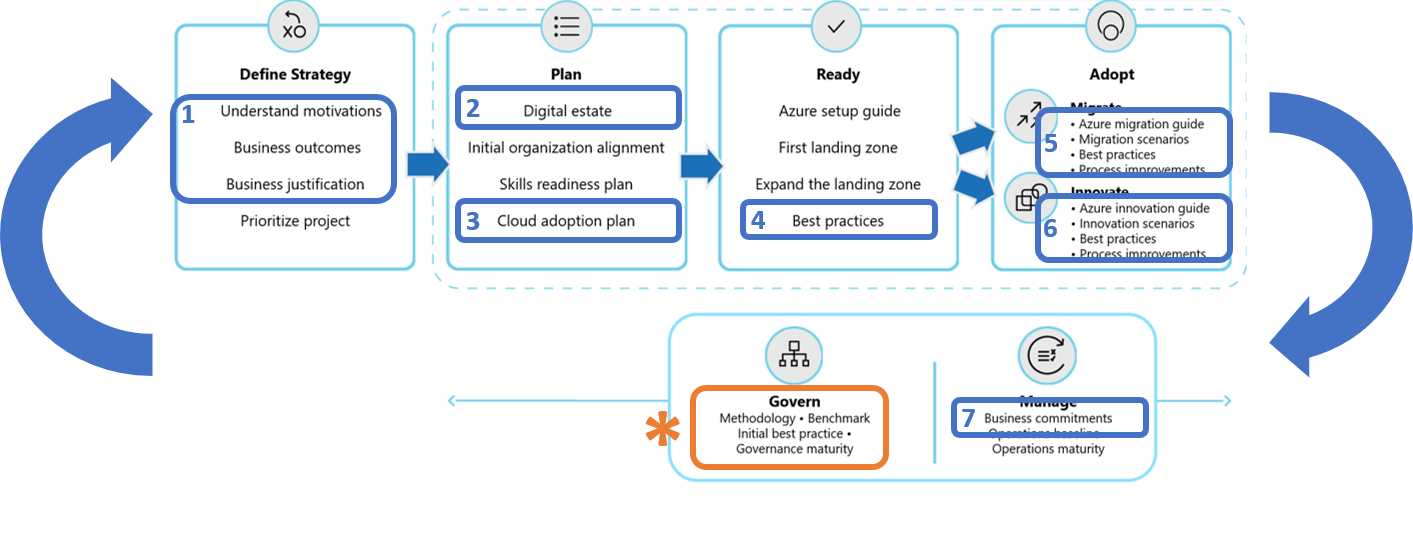
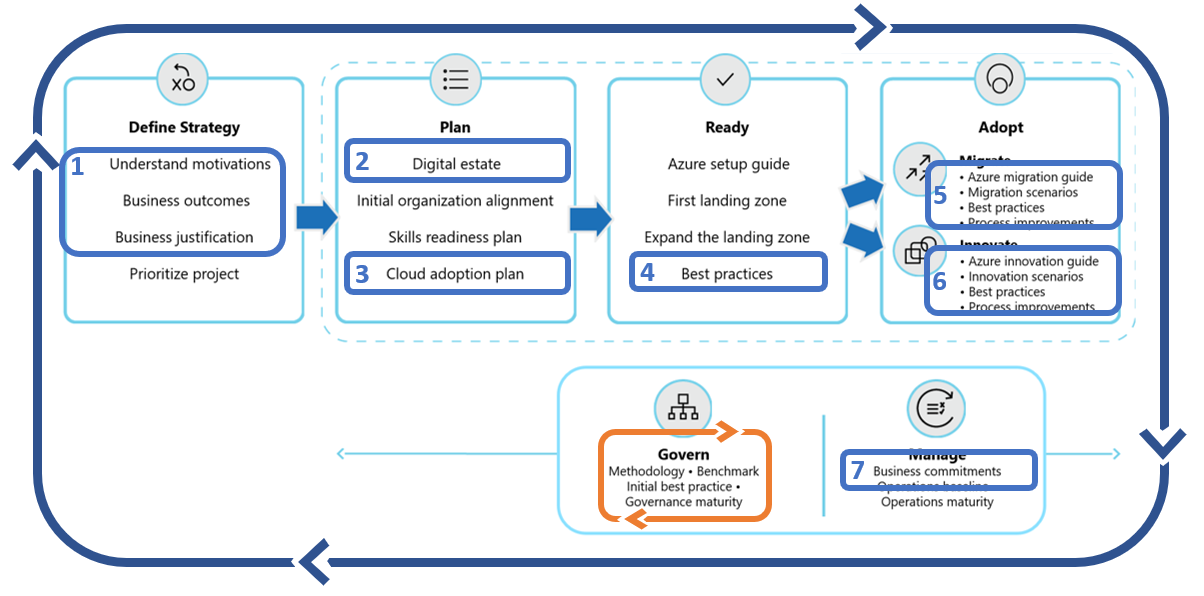
New image & flow to migrate

Changed region(s): [[0.0, 0.0, 1.0, 0.9802]]

diff --git a/docs/getting-started/migrate.md b/docs/getting-started/migrate.md
@@ -13,25 +13,41 @@ ms.subservice: overview
 
 Proper alignment of business and IT stakeholders can help your organization overcome migration roadblocks and accelerate migration efforts. This article provides a checklist and recommended steps for stakeholder alignment, migration planning, deploying a landing zone and migrating the first 10 workloads. It can also help you with long term success provided by proper governance and management.
 
-## Get started
+## Start with iterative migration efforts
 
-Use the migration checklists to discover opportunities to accelerate your migration efforts, remove roadblocks, and ensure success. Follow the steps to reduce the amount of materials and the processes required to align an overall migration effort. This process utilizes the sections of the Cloud Adoption Framework that are highlighted in the following illustration.
+The technical effort required to migrate workloads is relatively straight forward. In this approach, each iteration delivers on the three phases of migration: Assess workloads, Deploy workloads, and Release to production.
+
+![Phases of iterative migration efforts - Assess, Deploy, Release](../_images/migrate/methodology-effort-only.png)
+
+With each iteration, the cloud adoption team will get better at migrating workloads. The following steps will start the technical team on this  maturity curve:
+
+1. Migrate your **first workload** in a pure IaaS approach using the tools outlined in the Azure Migration guide.
+2. Expand tooling and approach options beyond IaaS using the Migration Scenarios.
+3. Develop your technical strategy using broader approaches outlined in the Best Practices.
+4. Improve consistency, reliablity, and performance through an efficient migration factory approach as outlined in the Process Improvements.
+
+Deliverable
+
+Continuous improvement of the adoption team's ability to migrate workloads
+
+Involved teams
+
+- Accountable team: [Cloud Adoption Team](../organize/cloud-adoption.md)
+- Responsible/Supporting teams: [Cloud Strategy Team](../organize/cloud-strategy.md) and [Cloud center of excellence](../organize/cloud-center-of-excellence.md)/[Central IT](../organize/central-it.md)
+
+## Accelerate adoption across the enterprise
+
+Efficient completion of the migration process outlined above is important. But, strategic migration readiness will have an even bigger impact on the timelines and successful completion of the overall migration.
+
+Use this migration checklists to discover opportunities to accelerate your migration efforts, remove roadblocks, and ensure success. Follow the steps to reduce the amount of materials and the processes required to align an overall migration effort. This process utilizes the sections of the Cloud Adoption Framework that are highlighted in the following illustration.
 
 ![Getting Started with Migration in Azure](../_images/getting-started/migration-getting-started-map.png)
 
 If your migration scenario is atypical, you can get a personalized assessment of your organizations migration readiness, by using the Strategic Migration and Readiness Tool or [SMART Assessment](/assessments/?id=Strategic-Migration-Assessment) to identify the guidance that best aligns to your current needs.
 
-## Define strategy
+## Step 1: Create a business strategy
 
-Use the following check list to evaluate your existing migration strategy. Use the steps to define your migration strategy.
-
-- **Business strategy:** Are all stakeholders aligned on the motivations and expected business outcomes?
-- **Business case:** Are all stakeholders aligned on the overall business justification?
-- **Partner support:** Are partners and other support models properly aligned for success of the migration effort?
-
-### Step 1: Create a business strategy
-
-To avoid common migration blockers, create a clear and concise business strategy for migration.
+To avoid common migration blockers, create a clear and concise business strategy for migration. Stakeholder alignment on motivations and expected business outcomes will shape decisions made by the cloud adoption team.
 
 - [Motivations](../strategy/motivations.md): The first step to strategic alignment is to gain a consensus on the motivations driving the migration effort. Start by understanding and categorizing motivations and common themes from various stakeholders across business and IT.
 - [Business Outcomes](../strategy/business-outcomes/index.md): Once motivations are aligned, it's possible to capture the desired business outcomes. This provides clear metrics by which the overall transformation can be measured.
@@ -45,9 +61,9 @@ Involved teams
 - Accountable team: [Cloud Strategy Team](../organize/cloud-strategy.md)
 - Responsible/Supporting teams: [Cloud Adoption Team](../organize/cloud-adoption.md) and [Cloud center of excellence](../organize/cloud-center-of-excellence.md)/[Central IT](../organize/central-it.md)
 
-### Step 2: Make a business case
+## Step 2: Make a business case
 
-Making the business case for migration will likely be an iterative conversation amongst stakeholders. In this first pass at building the business case, evaluate the initial, high-level return from a potential cloud migration.
+Making the business case for migration will likely be an iterative conversation amongst stakeholders. In this first pass at building the business case, evaluate the initial, high-level return from a potential cloud migration. The goal of this step is to ensure that all stakeholders align around one simple question, "Based on the available date, is the overall migration to the cloud a wise business decision?".
 
 - [Building a cloud migration business case](../strategy/cloud-migration-business-case.md) is a good starting point for developing a migration business case, with clarity on formulas and tools that can aid in business justification.
 
@@ -60,7 +76,7 @@ Involved teams
 - Accountable team: [Cloud Strategy Team](../organize/cloud-strategy.md)
 - Responsible/Supporting teams: [Cloud Adoption Team](../organize/cloud-adoption.md)
 
-### Step 3: Get partner support
+## Step 3: Get partner support
 
 Partners, Microsoft services, or various Microsoft programs are available to support you throughout the migration process.
 
@@ -69,23 +85,14 @@ Partners, Microsoft services, or various Microsoft programs are available to sup
 Deliverable
 
 - Establish terms and conditions, or other contractual agreements before engaging a supporting partner.
+- Identify approved partners in the [Strategy and Planning Template](https://archcenter.blob.core.windows.net/cdn/fusion/readiness/Microsoft-Cloud-Adoption-Framework-Strategy-and-Plan-Template.docx).
 
 Involved teams
 
 - Accountable team: [Cloud Strategy Team](../organize/cloud-strategy.md)
 - Responsible/Supporting teams: [Cloud Adoption Team](../organize/cloud-adoption.md) and [Cloud center of excellence](../organize/cloud-center-of-excellence.md)/[Central IT](../organize/central-it.md)
 
-## Plan
-
-Use the following check list to evaluate your existing plan. Use the steps to create a plan for migration based on the business motivations and outcomes that you have defined.
-
-- **Discovery and assessment**: Has the team completed a discovery of existing inventory? Has an initial rationalization and assessment been completed?
-- **Technical skilling**: Does the team have a skills plan in place?
-- **Migration plan**: Is there a defined plan for the migration of the next 10 workloads and related assets, including clarity on people allocations?
-
-The [Strategy and Planning Template](https://archcenter.blob.core.windows.net/cdn/fusion/readiness/Microsoft-Cloud-Adoption-Framework-Strategy-and-Plan-Template.docx) can help you plan your migration efforts and capture critical decisions.
-
-### Step 4: Gather data and analyze assets and workloads
+## Step 4: Gather data and analyze assets and workloads
 
 Discovery and assessment provide a deeper level of technical alignment to create an actionable plan to deliver on the strategy. During this step, the business case is validated using data about the current state environment, quantitative analysis of that data, and a deep qualitative assessment of the highest priority workloads.
 
@@ -97,16 +104,16 @@ Deliverable
 - Raw data on existing inventory
 - Quantitative analysis on existing inventory to refine the business justification
 - Qualitative analysis of the first 10 workloads
-- Update business justification in the Strategy and Planning Template
+- Update business justification in the [Strategy and Planning Template](https://archcenter.blob.core.windows.net/cdn/fusion/readiness/Microsoft-Cloud-Adoption-Framework-Strategy-and-Plan-Template.docx).
 
 Involved teams
 
 - Accountable team: [Cloud Adoption Team](../organize/cloud-adoption.md)
 - Responsible/Supporting teams: [Cloud Strategy Team](../organize/cloud-strategy.md)
 
-### Step 5: Build a skills readiness plan
+## Step 5: Build a skills readiness plan
 
-Existing employees can play a hands-on role in the migration effort. However, additional skills might be required.
+Existing employees can play a hands-on role in the migration effort. However, additional skills might be required. In this step, the team will self-assess to identify opportunities to develop those skills or leverage partners to augment those skills.
 
 - Plan: [Build a skills readiness plan](/plan/adapt-roles-skills-processes.md): Do a quick evaluation of the required skills and the existing skills to better understand what skilling requirements need to be addressed.
 
@@ -119,7 +126,7 @@ Involved teams
 - Accountable team: [Cloud Adoption Team](../organize/cloud-adoption.md)
 - Responsible/Supporting teams: [Cloud Strategy Team](../organize/cloud-strategy.md)
 
-### Step 6: Create a migration plan
+## Step 6: Create a migration plan
 
 The cloud adoption plan template provides an accelerated approach to developing a project backlog. The backlog can then be modified to reflect discovery results, rationalization, skilling, and partner contracting.
 
@@ -140,13 +147,7 @@ Involved teams
 - Accountable team: [Cloud Adoption Team](../organize/cloud-adoption.md)
 - Responsible/Supporting teams: [Cloud Strategy Team](../organize/cloud-strategy.md)
 
-## Ready
-
-Evaluate your migration readiness and then create a landing zone, and verify it with governance, security and operations.
-
-- **Landing zone**: Does the deployed landing zone align with the needs outlined in the adoption plan?
-
-### Step 7: Deploy and align a landing zone
+## Step 7: Deploy and align a landing zone
 
 All migrated assets are deployed within a landing zone. Initially, the landing zone will be simplistic to support smaller workloads. Over time, it will scale to address more complex workloads.
 
@@ -161,41 +162,10 @@ Deliverable
 
 Involved teams
 
-- Accountable team: [Cloud Adoption Team](../organize/cloud-adoption.md)
-- Responsible/Supporting teams: [Cloud center of excellence](../organize/cloud-center-of-excellence.md)/[Central IT](../organize/central-it.md)
+- Accountable team: [Cloud Platform Team](../organize/cloud-platform.md)
+- Responsible/Supporting teams: [Cloud Adoption Team](../organize/cloud-adoption.md) and [Cloud center of excellence](../organize/cloud-center-of-excellence.md)/[Central IT](../organize/central-it.md)
 
-## Adopt
-
-Make sure your technically prepared for migration. Use the steps to prepare your organization and platform for completing migration work.
-
-- **Migrating workloads**: Is the adoption team prepared to execute the technical migration effort?
-
-### Step 8: Migrate workloads
-
-For the majority of adoption patterns, the proceeding steps prepare the broader organization and platform for the migration work in this step. If migration is simply a technical process, skipping to this step may be perfectly acceptable. Some adoption patterns call for a one-time migration, wherein all assets are moved in a single motion, if that is the case you might be able to jump to this step as well.
-
-Migration execution is an iterative process of its own. Many people also refer to migration execution as a migration factory, because each release and each iteration is similar to running a set of workloads and assets through a conveyor belt, migrating each to the cloud.
-
-For more information on this step, see the [overview page for the Migration methodology](../migrate/index.md).
-
-Deliverable
-
-- Migrate first workload
-- Establish iterative processes (or migration factory) to continue a stream of workload releases
-- Timeline risk: Compliance requirements, architectural complexity, migration scenario, change control processes and many other dependencies can impact the team's velocity.
-
-Involved teams
-
-- Accountable team: [Cloud Adoption Team](../organize/cloud-adoption.md)
-- Responsible/Supporting teams: [Cloud Strategy Team](../organize/cloud-strategy.md) and [Cloud center of excellence](../organize/cloud-center-of-excellence.md)/[Central IT](../organize/central-it.md)
-
-## Govern
-
-Make sure your prepared for governance. Use the steps to make decisions about governance, which align to your adoption patterns, and your governance and compliance needs.
-
-- **Governance**: Is the governance team aligned with the approach to governing the cloud environment?
-
-### Step 9: Deploy a governance foundation
+## Step 8: Deploy a governance foundation
 
 Governance is a key factor to the long-term success of any migration effort. Speed to migration and business impact is important. But speed without governance can be dangerous. Your organization will need to make decisions about governance, which align to your adoption patterns, and governance and compliance needs.
 
@@ -213,13 +183,7 @@ Involved teams
 - Accountable team: [Cloud Governance Team](../organize/cloud-governance.md)
 - Responsible/Supporting teams: [Cloud Strategy Team](../organize/cloud-strategy.md) and [Cloud center of excellence](../organize/cloud-center-of-excellence.md)/[Central IT](../organize/central-it.md)
 
-## Manage
-
-Make sure there's a plan for post-migration and on-going operations. Use the steps to make sure your prepared for long term operations.
-
-- **Management**: Is there a post-migration plan for on-going operations of any production workloads?
-
-### Step 10: Establish an operational baseline
+## Step 10: Establish an operational baseline
 
 Operations Management is another requirement to reach migration success. Migrating to the cloud without an understanding of on-going operations is a risky decision. In parallel to migration, it is suggested that you start planning for longer-term operations.
 

diff --git a/docs/getting-started/manage-costs.md b/docs/getting-started/manage-costs.md
@@ -40,7 +40,7 @@ Guidance to support deliverable completion
 - **Improve cost management disciplines:** Step four of the guide above focuses on implementing cost management practices that will drive optimization of cost across the enterprise. For additional guidance on integrating cost management into governance, see the [full article](../govern/guides/complex/cost-management-improvement.md) or jump to the [implementation guidance](../govern/guides/complex/cost-management-improvement.md#incremental-improvement-of-the-best-practices) section for a list of technical suggestions.
 - **Go deep on cost management in governance:** For deeper guidance, the [cost management discipline](../govern/cost-management/index.md) articles will drive clarity regarding cost optimization topics around [business risks](../govern/cost-management/business-risks.md), [indicators & metrics](../govern/cost-management/metrics-tolerance.md), [policy adherence processes](../govern/cost-management/compliance-processes.md), [iterative improvements](../govern/cost-management/discipline-improvement.md), [Azure tools](../govern/cost-management/toolchain.md), and a [template for recording decisions](../govern/cost-management/template.md).
 
-## Steps to scale cost optimization
+## Steps to Scale cost optimization
 
 The governance team align can detect and drive significant cost optimization across most enterprises. Basic, data-driven resource sizing can have an immediate and measurable impact on costs.
 
